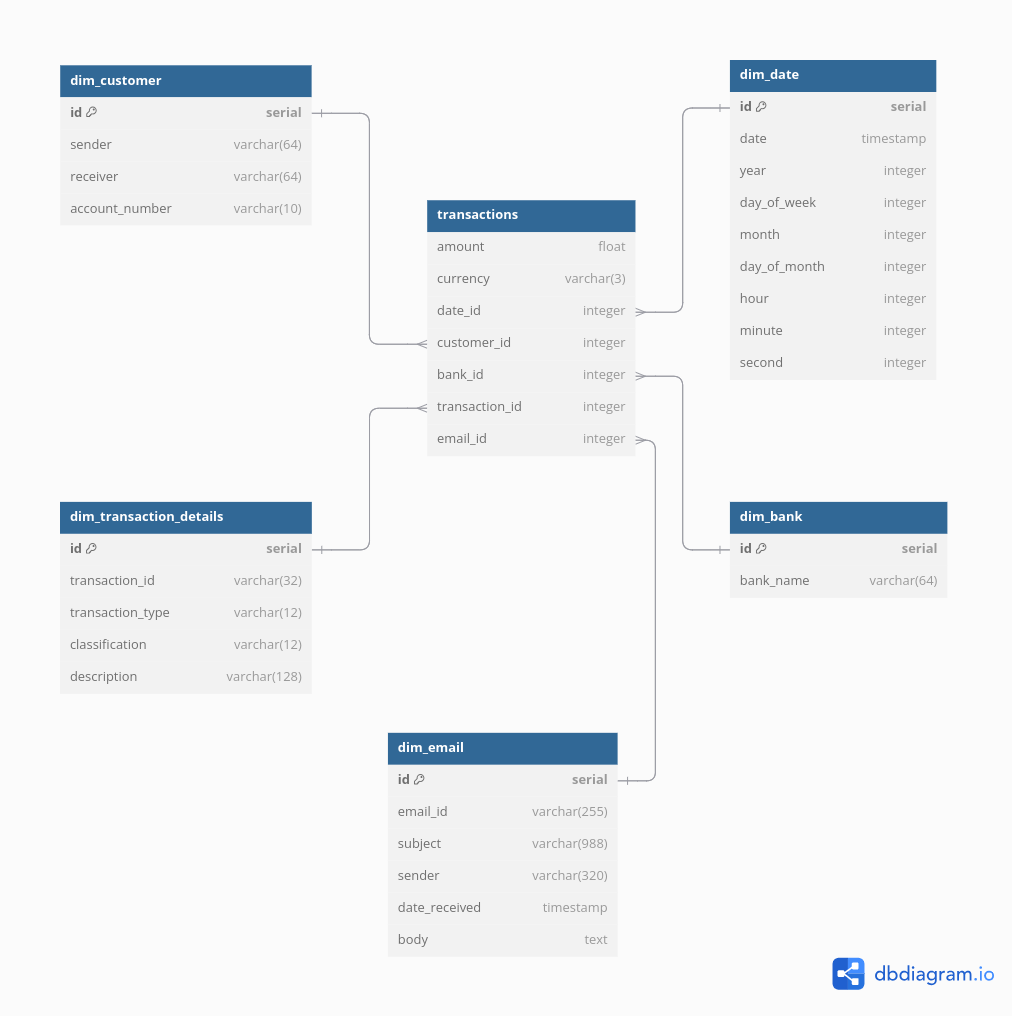
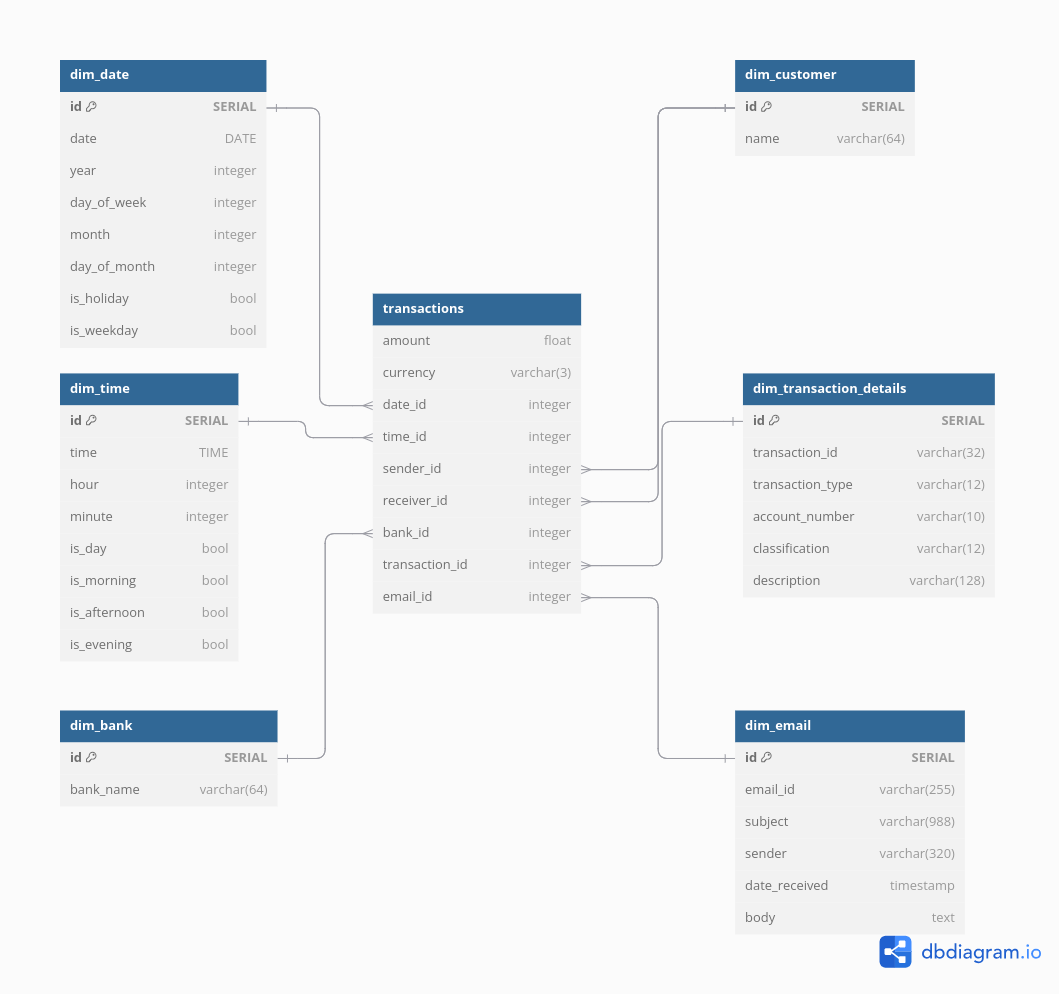
Update star schema

diff --git a/src/extract.py b/src/extract.py
@@ -9,6 +9,7 @@ from src.db import (
     insert_bank,
     insert_customer,
     insert_date,
+    insert_time,
     insert_transaction,
     insert_transaction_details,
 )
@@ -58,22 +59,25 @@ def extract_from_mail(email: str) -> Transaction:
 
 
 def write_transaction_to_db(transaction: Transaction, email_id: int) -> int:
-    cust_id = insert_customer(
-        transaction.sender, transaction.receiver, transaction.account_number
-    )
+    sender_id = insert_customer(transaction.sender)
+    receiver_id = insert_customer(transaction.receiver)
     bank_id = insert_bank(transaction.bank_name)
     date_id = insert_date(transaction.date)
+    time_id = insert_time(transaction.date)
     transaction_details_id = insert_transaction_details(
         transaction.transaction_id,
         transaction.transaction_type,
         transaction.classification,
         transaction.description,
+        transaction.account_number,
     )
     id = insert_transaction(
         transaction.amount,
         transaction.currency,
         date_id,
-        cust_id,
+        time_id,
+        sender_id,
+        receiver_id,
         bank_id,
         email_id,
         transaction_details_id,
